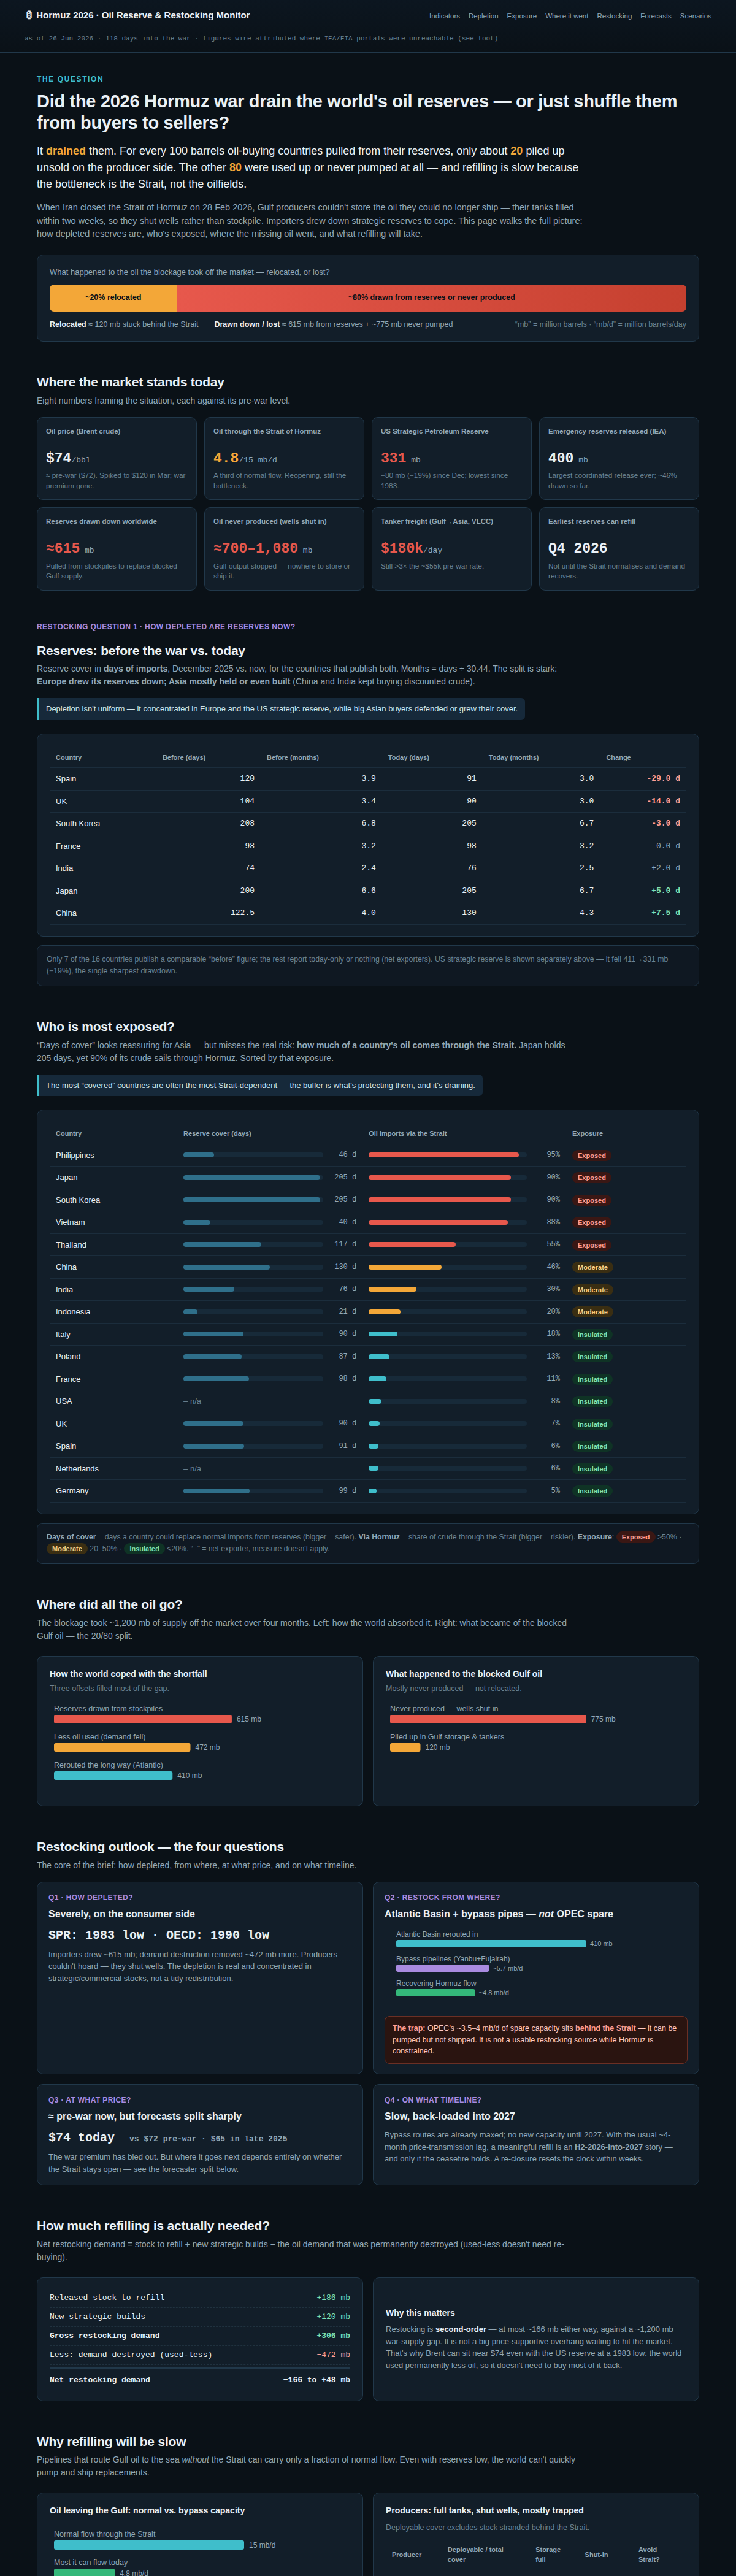
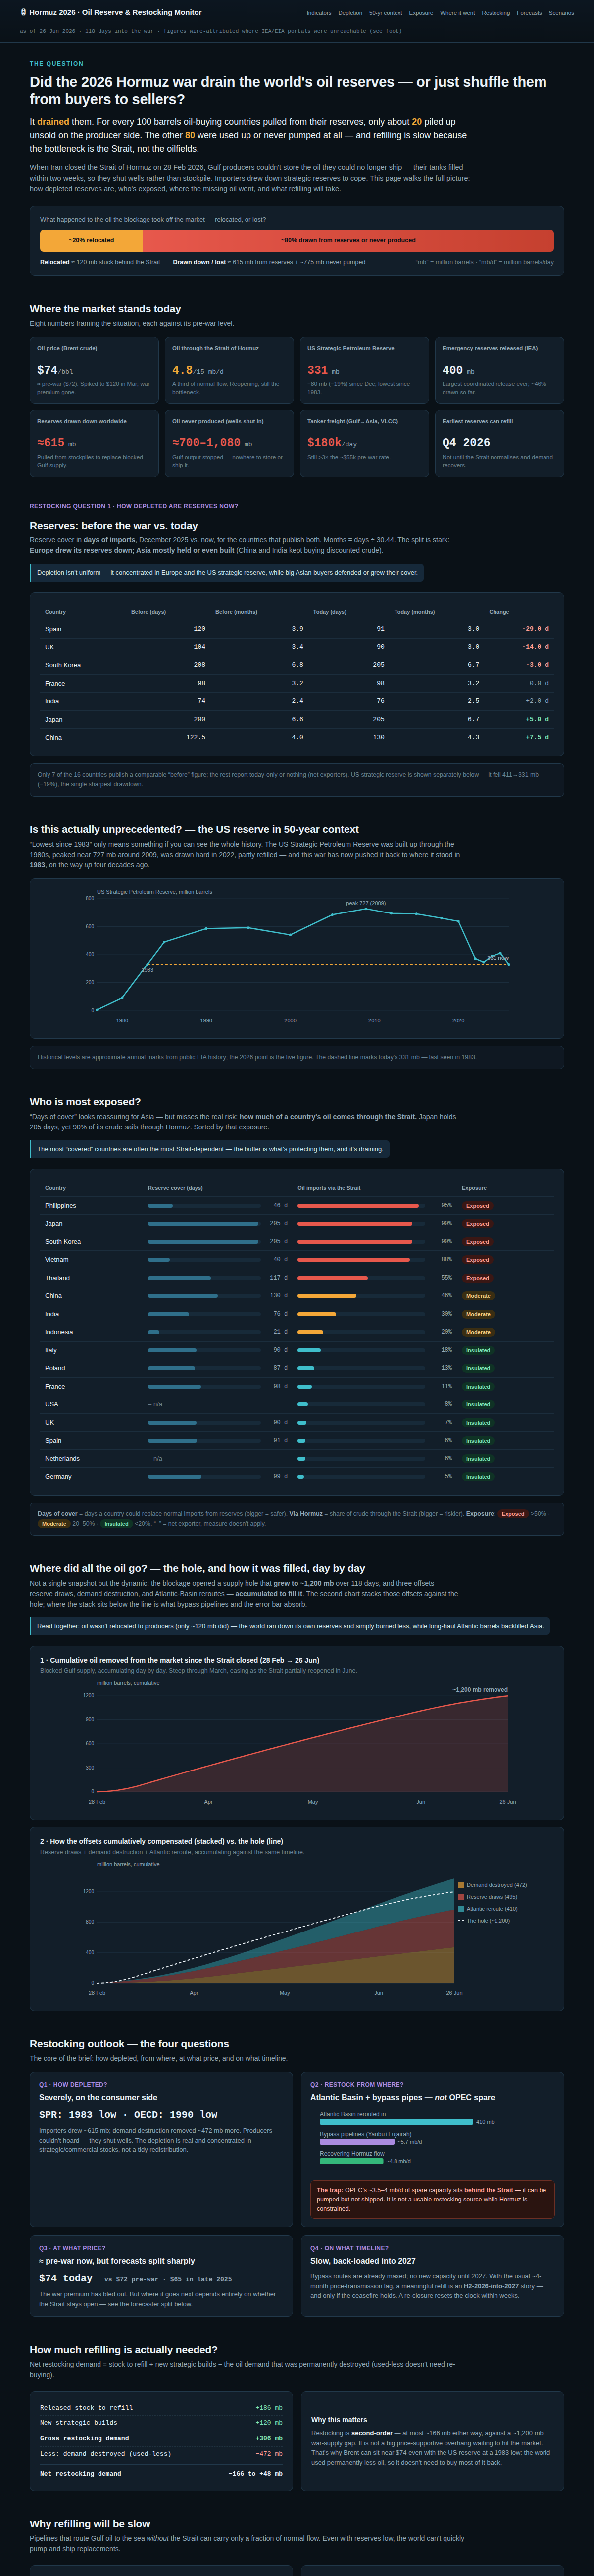
Dashboard: add historical context + cumulative day-by-day analytics
Address feedback that the page displayed numbers without McKinsey-style context/flow:
- US SPR in 50-year context (1977-2026): build-up, 727 peak (2009), 2022 draw, and
  today's 331 mb marked against its 1983 level — so "lowest since 1983" lands.
- Replace the two static ledger bars with cumulative day-by-day time series:
  (1) supply removed from the market growing to ~1,200 mb over the 118 days;
  (2) stacked cumulative compensation (demand destroyed + reserve draws + Atlantic
  reroute) against the hole, showing how the offsets filled it over time.
- Modelled daily rates scaled to the ledger totals; month axis Feb->Jun.

Claude-Session: https://claude.ai/code/session_01VLUjJfiMj99Gd9BWnp2XB6

diff --git a/dashboard/index.html b/dashboard/index.html
@@ -109,7 +109,7 @@
   <div class="hd">
     <span class="t">🛢 Hormuz 2026 · Oil Reserve & Restocking Monitor</span>
     <nav>
-      <a href="#indicators">Indicators</a><a href="#depletion">Depletion</a><a href="#exposed">Exposure</a>
+      <a href="#indicators">Indicators</a><a href="#depletion">Depletion</a><a href="#context">50-yr context</a><a href="#exposed">Exposure</a>
       <a href="#ledger">Where it went</a><a href="#restock">Restocking</a><a href="#price">Forecasts</a><a href="#scenarios">Scenarios</a>
     </nav>
     <span class="meta">as of 26 Jun 2026 · 118 days into the war · figures wire-attributed where IEA/EIA portals were unreachable (see foot)</span>
@@ -164,7 +164,13 @@
       <tbody></tbody>
     </table>
   </div>
-  <div class="terms">Only 7 of the 16 countries publish a comparable “before” figure; the rest report today-only or nothing (net exporters). US strategic reserve is shown separately above — it fell 411→331 mb (−19%), the single sharpest drawdown.</div>
+  <div class="terms">Only 7 of the 16 countries publish a comparable “before” figure; the rest report today-only or nothing (net exporters). US strategic reserve is shown separately below — it fell 411→331 mb (−19%), the single sharpest drawdown.</div>
+
+  <!-- SPR 50-YEAR CONTEXT -->
+  <h2 id="context">Is this actually unprecedented? — the US reserve in 50-year context</h2>
+  <p class="sub">“Lowest since 1983” only means something if you can see the whole history. The US Strategic Petroleum Reserve was built up through the 1980s, peaked near 727 mb around 2009, was drawn hard in 2022, partly refilled — and this war has now pushed it back to where it stood in <b>1983</b>, on the way <i>up</i> four decades ago.</p>
+  <div class="panel"><svg id="sprhist" viewBox="0 0 900 280" width="100%" height="280"></svg></div>
+  <div class="terms">Historical levels are approximate annual marks from public EIA history; the 2026 point is the live figure. The dashed line marks today's 331 mb — last seen in 1983.</div>
 
   <!-- EXPOSURE (import-at-risk) -->
   <h2 id="exposed">Who is most exposed?</h2>
@@ -178,17 +184,16 @@
   </div>
   <div class="terms"><b>Days of cover</b> = days a country could replace normal imports from reserves (bigger = safer). <b>Via Hormuz</b> = share of crude through the Strait (bigger = riskier). <b>Exposure</b>: <span class="pill p-exp">Exposed</span> &gt;50% · <span class="pill p-mod">Moderate</span> 20–50% · <span class="pill p-ins">Insulated</span> &lt;20%. “–” = net exporter, measure doesn't apply.</div>
 
-  <!-- LEDGER -->
-  <h2 id="ledger">Where did all the oil go?</h2>
-  <p class="sub">The blockage took ~1,200 mb of supply off the market over four months. Left: how the world absorbed it. Right: what became of the blocked Gulf oil — the 20/80 split.</p>
-  <div class="grid2">
-    <div class="panel"><h4 style="margin:0 0 4px">How the world coped with the shortfall</h4>
-      <p style="font-size:12.5px;color:var(--faint);margin:0 0 8px">Three offsets filled most of the gap.</p>
-      <svg id="coped" viewBox="0 0 480 150" width="100%" height="150"></svg></div>
-    <div class="panel"><h4 style="margin:0 0 4px">What happened to the blocked Gulf oil</h4>
-      <p style="font-size:12.5px;color:var(--faint);margin:0 0 8px">Mostly never produced — not relocated.</p>
-      <svg id="blocked" viewBox="0 0 480 110" width="100%" height="110"></svg></div>
-  </div>
+  <!-- LEDGER — cumulative, day-by-day -->
+  <h2 id="ledger">Where did all the oil go? — the hole, and how it was filled, day by day</h2>
+  <p class="sub">Not a single snapshot but the dynamic: the blockage opened a supply hole that <b>grew to ~1,200 mb</b> over 118 days, and three offsets — reserve draws, demand destruction, and Atlantic-Basin reroutes — <b>accumulated to fill it</b>. The second chart stacks those offsets against the hole; where the stack sits below the line is what bypass pipelines and the error bar absorb.</p>
+  <span class="so">Read together: oil wasn't relocated to producers (only ~120 mb did) — the world ran down its own reserves and simply burned less, while long-haul Atlantic barrels backfilled Asia.</span>
+  <div class="panel"><h4 style="margin:0 0 2px">1 · Cumulative oil removed from the market since the Strait closed (28 Feb → 26 Jun)</h4>
+    <p style="font-size:12.5px;color:var(--faint);margin:0 0 6px">Blocked Gulf supply, accumulating day by day. Steep through March, easing as the Strait partially reopened in June.</p>
+    <svg id="cumloss" viewBox="0 0 900 260" width="100%" height="260"></svg></div>
+  <div class="panel" style="margin-top:14px"><h4 style="margin:0 0 2px">2 · How the offsets cumulatively compensated (stacked) vs. the hole (line)</h4>
+    <p style="font-size:12.5px;color:var(--faint);margin:0 0 6px">Reserve draws + demand destruction + Atlantic reroute, accumulating against the same timeline.</p>
+    <svg id="cumcomp" viewBox="0 0 900 280" width="100%" height="280"></svg></div>
 
   <!-- RESTOCKING — 4 questions (scope c) -->
   <h2 id="restock">Restocking outlook — the four questions</h2>
@@ -357,21 +362,51 @@ producer.forEach(r=>{
 });
 
 // ---- horizontal bars helper ----
-function hbars(id,rows,max,unit,labelW){
-  labelW=labelW||150; const svg=document.getElementById(id),W=480,top=6,rowH=46;
-  rows.forEach((r,i)=>{const y=top+i*rowH,bw=Math.max(2,(r.v/max)*(W-labelW));
-    svg.insertAdjacentHTML("beforeend",
-     `<text x="2" y="${y+14}" fill="#eaf1f6" font-size="12.5">${r.label}</text>
-      <rect x="2" y="${y+20}" width="${bw}" height="14" rx="3" fill="${r.color}"/>
-      <text x="${bw+10}" y="${y+31}" fill="#93a8b6" font-size="12">${r.v} ${unit||'mb'}</text>`);});
-}
-hbars("coped",[
- {label:"Reserves drawn from stockpiles",v:615,color:"#e7584c"},
- {label:"Less oil used (demand fell)",v:472,color:"#f3a738"},
- {label:"Rerouted the long way (Atlantic)",v:410,color:"#3fbecb"}],700);
-hbars("blocked",[
- {label:"Never produced — wells shut in",v:775,color:"#e7584c"},
- {label:"Piled up in Gulf storage & tankers",v:120,color:"#f3a738"}],800);
+// ===== cumulative day-by-day series (modelled to match the ledger totals) =====
+const DAYS=118;
+function accum(w,total){let s=0,a=[];for(let d=0;d<=DAYS;d++){s+=Math.max(0,w(d));a.push(s);}const k=total/a[a.length-1];return a.map(v=>v*k);}
+const gap    = accum(d=> d<14? d/14*13 : d<90? 12-(d-14)/76*2 : 10-(d-90)/28*5, 1200); // supply removed
+const demand = accum(d=> Math.min(5, d/40*5), 472);                                     // demand destroyed
+const draw   = accum(d=> d<30? 2+d/30*2 : d<90? 4+(d-30)/60*2 : 6-(d-90)/28*3, 495);    // reserve draws
+const atl    = accum(d=> Math.min(4, d/55*4), 410);                                     // Atlantic reroute
+const xs=(d,L,W,R)=>L+d/DAYS*(W-L-R);
+const lpath=(v,L,W,R,yf)=>v.map((y,d)=>`${d?'L':'M'}${xs(d,L,W,R).toFixed(1)} ${yf(y).toFixed(1)}`).join(" ");
+const apath=(v,L,W,R,yf,y0)=>lpath(v,L,W,R,yf)+` L${xs(DAYS,L,W,R).toFixed(1)} ${y0} L${xs(0,L,W,R).toFixed(1)} ${y0} Z`;
+function band(lo,hi,L,W,R,yf){let p=hi.map((y,d)=>`${d?'L':'M'}${xs(d,L,W,R).toFixed(1)} ${yf(y).toFixed(1)}`).join(" ");for(let d=DAYS;d>=0;d--)p+=` L${xs(d,L,W,R).toFixed(1)} ${yf(lo[d]).toFixed(1)}`;return p+" Z";}
+function months(svg,L,W,R,H){[[0,"28 Feb"],[32,"Apr"],[62,"May"],[93,"Jun"],[118,"26 Jun"]].forEach(([d,l])=>svg.insertAdjacentHTML("beforeend",`<text x="${xs(d,L,W,R)}" y="${H-8}" text-anchor="middle" font-size="11">${l}</text>`));}
+function ygrid(svg,L,W,R,yf,vals){vals.forEach(g=>svg.insertAdjacentHTML("beforeend",`<line x1="${L}" y1="${yf(g)}" x2="${W-R}" y2="${yf(g)}" stroke="#1b2d3c"/><text x="${L-6}" y="${yf(g)+3}" text-anchor="end" font-size="10">${g}</text>`));}
+
+// 1 · cumulative loss
+(function(){const svg=document.getElementById("cumloss"),W=900,H=260,L=46,R=24,T=18,B=32,yMax=1300,yf=v=>T+(1-v/yMax)*(H-T-B);
+ ygrid(svg,L,W,R,yf,[0,300,600,900,1200]);
+ svg.insertAdjacentHTML("beforeend",`<path d="${apath(gap,L,W,R,yf,yf(0))}" fill="#e7584c2e"/><path d="${lpath(gap,L,W,R,yf)}" fill="none" stroke="#e7584c" stroke-width="2.5"/>`);
+ svg.insertAdjacentHTML("beforeend",`<text x="${W-R}" y="${yf(gap[DAYS])-8}" text-anchor="end" fill="#ff9d92" font-size="12" font-weight="bold">~1,200 mb removed</text><text x="${L}" y="12" font-size="11" fill="#93a8b6">million barrels, cumulative</text>`);
+ months(svg,L,W,R,H);})();
+
+// 2 · cumulative compensation (stacked) vs gap line
+(function(){const svg=document.getElementById("cumcomp"),W=900,H=280,L=46,R=132,T=18,B=32,yMax=1500,yf=v=>T+(1-v/yMax)*(H-T-B);
+ ygrid(svg,L,W,R,yf,[0,400,800,1200]);
+ const z=demand.map(()=>0),l2=demand.map((v,i)=>v+draw[i]),l3=l2.map((v,i)=>v+atl[i]);
+ svg.insertAdjacentHTML("beforeend",`<path d="${band(z,demand,L,W,R,yf)}" fill="#f3a73866"/><path d="${band(demand,l2,L,W,R,yf)}" fill="#e7584c66"/><path d="${band(l2,l3,L,W,R,yf)}" fill="#3fbecb66"/>`);
+ svg.insertAdjacentHTML("beforeend",`<path d="${lpath(gap,L,W,R,yf)}" fill="none" stroke="#eaf1f6" stroke-width="2" stroke-dasharray="5 4"/>`);
+ const leg=[["Demand destroyed","#f3a738","472"],["Reserve draws","#e7584c","495"],["Atlantic reroute","#3fbecb","410"]];
+ leg.forEach((d,i)=>svg.insertAdjacentHTML("beforeend",`<rect x="${W-R+8}" y="${44+i*24}" width="12" height="12" fill="${d[1]}aa"/><text x="${W-R+25}" y="${54+i*24}" font-size="11" fill="#eaf1f6">${d[0]} (${d[2]})</text>`));
+ svg.insertAdjacentHTML("beforeend",`<line x1="${W-R+8}" y1="${44+3*24+6}" x2="${W-R+20}" y2="${44+3*24+6}" stroke="#eaf1f6" stroke-width="2" stroke-dasharray="4 3"/><text x="${W-R+25}" y="${44+3*24+10}" font-size="11" fill="#eaf1f6">The hole (~1,200)</text><text x="${L}" y="12" font-size="11" fill="#93a8b6">million barrels, cumulative</text>`);
+ months(svg,L,W,R,H);})();
+
+// SPR 50-year history
+(function(){const svg=document.getElementById("sprhist"),W=900,H=280,L=46,R=22,T=22,B=32;
+ const d=[[1977,7],[1980,92],[1983,331],[1985,490],[1990,586],[1995,592],[2000,541],[2005,685],[2009,727],[2012,695],[2015,691],[2018,660],[2020,638],[2022,372],[2023,347],[2024,390],[2025,411],[2026,331]];
+ const x0=1977,x1=2026,xf=y=>L+(y-x0)/(x1-x0)*(W-L-R),yMax=800,yf=v=>T+(1-v/yMax)*(H-T-B);
+ [0,200,400,600,800].forEach(g=>svg.insertAdjacentHTML("beforeend",`<line x1="${L}" y1="${yf(g)}" x2="${W-R}" y2="${yf(g)}" stroke="#1b2d3c"/><text x="${L-6}" y="${yf(g)+3}" text-anchor="end" font-size="10">${g}</text>`));
+ [1980,1990,2000,2010,2020].forEach(yr=>svg.insertAdjacentHTML("beforeend",`<text x="${xf(yr)}" y="${H-8}" text-anchor="middle" font-size="11">${yr}</text>`));
+ svg.insertAdjacentHTML("beforeend",`<line x1="${xf(1983)}" y1="${yf(331)}" x2="${xf(2026)}" y2="${yf(331)}" stroke="#f3a738" stroke-dasharray="5 4" stroke-width="1.5"/>`);
+ svg.insertAdjacentHTML("beforeend",`<path d="${d.map((p,i)=>`${i?'L':'M'}${xf(p[0]).toFixed(1)} ${yf(p[1]).toFixed(1)}`).join(" ")}" fill="none" stroke="#3fbecb" stroke-width="2.5"/>`);
+ d.forEach(p=>svg.insertAdjacentHTML("beforeend",`<circle cx="${xf(p[0])}" cy="${yf(p[1])}" r="2.6" fill="#3fbecb"/>`));
+ svg.insertAdjacentHTML("beforeend",`<text x="${xf(2009)}" y="${yf(727)-8}" text-anchor="middle" font-size="11" fill="#7fe2b3">peak 727 (2009)</text>`);
+ svg.insertAdjacentHTML("beforeend",`<text x="${xf(2026)}" y="${yf(331)-9}" text-anchor="end" font-size="11" fill="#ff9d92" font-weight="bold">331 now</text>`);
+ svg.insertAdjacentHTML("beforeend",`<text x="${xf(1983)}" y="${yf(331)+16}" text-anchor="middle" font-size="11" fill="#f3a738">1983</text>`);
+ svg.insertAdjacentHTML("beforeend",`<text x="${L}" y="12" font-size="11" fill="#93a8b6">US Strategic Petroleum Reserve, million barrels</text>`);})();
 
 // sourcing (Q2) — smaller viewBox
 (function(){const svg=document.getElementById("sourcing"),W=460,max=410,top=4,rowH=40,labelW=150;

diff --git a/index.html b/index.html
@@ -109,7 +109,7 @@
   <div class="hd">
     <span class="t">🛢 Hormuz 2026 · Oil Reserve & Restocking Monitor</span>
     <nav>
-      <a href="#indicators">Indicators</a><a href="#depletion">Depletion</a><a href="#exposed">Exposure</a>
+      <a href="#indicators">Indicators</a><a href="#depletion">Depletion</a><a href="#context">50-yr context</a><a href="#exposed">Exposure</a>
       <a href="#ledger">Where it went</a><a href="#restock">Restocking</a><a href="#price">Forecasts</a><a href="#scenarios">Scenarios</a>
     </nav>
     <span class="meta">as of 26 Jun 2026 · 118 days into the war · figures wire-attributed where IEA/EIA portals were unreachable (see foot)</span>
@@ -164,7 +164,13 @@
       <tbody></tbody>
     </table>
   </div>
-  <div class="terms">Only 7 of the 16 countries publish a comparable “before” figure; the rest report today-only or nothing (net exporters). US strategic reserve is shown separately above — it fell 411→331 mb (−19%), the single sharpest drawdown.</div>
+  <div class="terms">Only 7 of the 16 countries publish a comparable “before” figure; the rest report today-only or nothing (net exporters). US strategic reserve is shown separately below — it fell 411→331 mb (−19%), the single sharpest drawdown.</div>
+
+  <!-- SPR 50-YEAR CONTEXT -->
+  <h2 id="context">Is this actually unprecedented? — the US reserve in 50-year context</h2>
+  <p class="sub">“Lowest since 1983” only means something if you can see the whole history. The US Strategic Petroleum Reserve was built up through the 1980s, peaked near 727 mb around 2009, was drawn hard in 2022, partly refilled — and this war has now pushed it back to where it stood in <b>1983</b>, on the way <i>up</i> four decades ago.</p>
+  <div class="panel"><svg id="sprhist" viewBox="0 0 900 280" width="100%" height="280"></svg></div>
+  <div class="terms">Historical levels are approximate annual marks from public EIA history; the 2026 point is the live figure. The dashed line marks today's 331 mb — last seen in 1983.</div>
 
   <!-- EXPOSURE (import-at-risk) -->
   <h2 id="exposed">Who is most exposed?</h2>
@@ -178,17 +184,16 @@
   </div>
   <div class="terms"><b>Days of cover</b> = days a country could replace normal imports from reserves (bigger = safer). <b>Via Hormuz</b> = share of crude through the Strait (bigger = riskier). <b>Exposure</b>: <span class="pill p-exp">Exposed</span> &gt;50% · <span class="pill p-mod">Moderate</span> 20–50% · <span class="pill p-ins">Insulated</span> &lt;20%. “–” = net exporter, measure doesn't apply.</div>
 
-  <!-- LEDGER -->
-  <h2 id="ledger">Where did all the oil go?</h2>
-  <p class="sub">The blockage took ~1,200 mb of supply off the market over four months. Left: how the world absorbed it. Right: what became of the blocked Gulf oil — the 20/80 split.</p>
-  <div class="grid2">
-    <div class="panel"><h4 style="margin:0 0 4px">How the world coped with the shortfall</h4>
-      <p style="font-size:12.5px;color:var(--faint);margin:0 0 8px">Three offsets filled most of the gap.</p>
-      <svg id="coped" viewBox="0 0 480 150" width="100%" height="150"></svg></div>
-    <div class="panel"><h4 style="margin:0 0 4px">What happened to the blocked Gulf oil</h4>
-      <p style="font-size:12.5px;color:var(--faint);margin:0 0 8px">Mostly never produced — not relocated.</p>
-      <svg id="blocked" viewBox="0 0 480 110" width="100%" height="110"></svg></div>
-  </div>
+  <!-- LEDGER — cumulative, day-by-day -->
+  <h2 id="ledger">Where did all the oil go? — the hole, and how it was filled, day by day</h2>
+  <p class="sub">Not a single snapshot but the dynamic: the blockage opened a supply hole that <b>grew to ~1,200 mb</b> over 118 days, and three offsets — reserve draws, demand destruction, and Atlantic-Basin reroutes — <b>accumulated to fill it</b>. The second chart stacks those offsets against the hole; where the stack sits below the line is what bypass pipelines and the error bar absorb.</p>
+  <span class="so">Read together: oil wasn't relocated to producers (only ~120 mb did) — the world ran down its own reserves and simply burned less, while long-haul Atlantic barrels backfilled Asia.</span>
+  <div class="panel"><h4 style="margin:0 0 2px">1 · Cumulative oil removed from the market since the Strait closed (28 Feb → 26 Jun)</h4>
+    <p style="font-size:12.5px;color:var(--faint);margin:0 0 6px">Blocked Gulf supply, accumulating day by day. Steep through March, easing as the Strait partially reopened in June.</p>
+    <svg id="cumloss" viewBox="0 0 900 260" width="100%" height="260"></svg></div>
+  <div class="panel" style="margin-top:14px"><h4 style="margin:0 0 2px">2 · How the offsets cumulatively compensated (stacked) vs. the hole (line)</h4>
+    <p style="font-size:12.5px;color:var(--faint);margin:0 0 6px">Reserve draws + demand destruction + Atlantic reroute, accumulating against the same timeline.</p>
+    <svg id="cumcomp" viewBox="0 0 900 280" width="100%" height="280"></svg></div>
 
   <!-- RESTOCKING — 4 questions (scope c) -->
   <h2 id="restock">Restocking outlook — the four questions</h2>
@@ -357,21 +362,51 @@ producer.forEach(r=>{
 });
 
 // ---- horizontal bars helper ----
-function hbars(id,rows,max,unit,labelW){
-  labelW=labelW||150; const svg=document.getElementById(id),W=480,top=6,rowH=46;
-  rows.forEach((r,i)=>{const y=top+i*rowH,bw=Math.max(2,(r.v/max)*(W-labelW));
-    svg.insertAdjacentHTML("beforeend",
-     `<text x="2" y="${y+14}" fill="#eaf1f6" font-size="12.5">${r.label}</text>
-      <rect x="2" y="${y+20}" width="${bw}" height="14" rx="3" fill="${r.color}"/>
-      <text x="${bw+10}" y="${y+31}" fill="#93a8b6" font-size="12">${r.v} ${unit||'mb'}</text>`);});
-}
-hbars("coped",[
- {label:"Reserves drawn from stockpiles",v:615,color:"#e7584c"},
- {label:"Less oil used (demand fell)",v:472,color:"#f3a738"},
- {label:"Rerouted the long way (Atlantic)",v:410,color:"#3fbecb"}],700);
-hbars("blocked",[
- {label:"Never produced — wells shut in",v:775,color:"#e7584c"},
- {label:"Piled up in Gulf storage & tankers",v:120,color:"#f3a738"}],800);
+// ===== cumulative day-by-day series (modelled to match the ledger totals) =====
+const DAYS=118;
+function accum(w,total){let s=0,a=[];for(let d=0;d<=DAYS;d++){s+=Math.max(0,w(d));a.push(s);}const k=total/a[a.length-1];return a.map(v=>v*k);}
+const gap    = accum(d=> d<14? d/14*13 : d<90? 12-(d-14)/76*2 : 10-(d-90)/28*5, 1200); // supply removed
+const demand = accum(d=> Math.min(5, d/40*5), 472);                                     // demand destroyed
+const draw   = accum(d=> d<30? 2+d/30*2 : d<90? 4+(d-30)/60*2 : 6-(d-90)/28*3, 495);    // reserve draws
+const atl    = accum(d=> Math.min(4, d/55*4), 410);                                     // Atlantic reroute
+const xs=(d,L,W,R)=>L+d/DAYS*(W-L-R);
+const lpath=(v,L,W,R,yf)=>v.map((y,d)=>`${d?'L':'M'}${xs(d,L,W,R).toFixed(1)} ${yf(y).toFixed(1)}`).join(" ");
+const apath=(v,L,W,R,yf,y0)=>lpath(v,L,W,R,yf)+` L${xs(DAYS,L,W,R).toFixed(1)} ${y0} L${xs(0,L,W,R).toFixed(1)} ${y0} Z`;
+function band(lo,hi,L,W,R,yf){let p=hi.map((y,d)=>`${d?'L':'M'}${xs(d,L,W,R).toFixed(1)} ${yf(y).toFixed(1)}`).join(" ");for(let d=DAYS;d>=0;d--)p+=` L${xs(d,L,W,R).toFixed(1)} ${yf(lo[d]).toFixed(1)}`;return p+" Z";}
+function months(svg,L,W,R,H){[[0,"28 Feb"],[32,"Apr"],[62,"May"],[93,"Jun"],[118,"26 Jun"]].forEach(([d,l])=>svg.insertAdjacentHTML("beforeend",`<text x="${xs(d,L,W,R)}" y="${H-8}" text-anchor="middle" font-size="11">${l}</text>`));}
+function ygrid(svg,L,W,R,yf,vals){vals.forEach(g=>svg.insertAdjacentHTML("beforeend",`<line x1="${L}" y1="${yf(g)}" x2="${W-R}" y2="${yf(g)}" stroke="#1b2d3c"/><text x="${L-6}" y="${yf(g)+3}" text-anchor="end" font-size="10">${g}</text>`));}
+
+// 1 · cumulative loss
+(function(){const svg=document.getElementById("cumloss"),W=900,H=260,L=46,R=24,T=18,B=32,yMax=1300,yf=v=>T+(1-v/yMax)*(H-T-B);
+ ygrid(svg,L,W,R,yf,[0,300,600,900,1200]);
+ svg.insertAdjacentHTML("beforeend",`<path d="${apath(gap,L,W,R,yf,yf(0))}" fill="#e7584c2e"/><path d="${lpath(gap,L,W,R,yf)}" fill="none" stroke="#e7584c" stroke-width="2.5"/>`);
+ svg.insertAdjacentHTML("beforeend",`<text x="${W-R}" y="${yf(gap[DAYS])-8}" text-anchor="end" fill="#ff9d92" font-size="12" font-weight="bold">~1,200 mb removed</text><text x="${L}" y="12" font-size="11" fill="#93a8b6">million barrels, cumulative</text>`);
+ months(svg,L,W,R,H);})();
+
+// 2 · cumulative compensation (stacked) vs gap line
+(function(){const svg=document.getElementById("cumcomp"),W=900,H=280,L=46,R=132,T=18,B=32,yMax=1500,yf=v=>T+(1-v/yMax)*(H-T-B);
+ ygrid(svg,L,W,R,yf,[0,400,800,1200]);
+ const z=demand.map(()=>0),l2=demand.map((v,i)=>v+draw[i]),l3=l2.map((v,i)=>v+atl[i]);
+ svg.insertAdjacentHTML("beforeend",`<path d="${band(z,demand,L,W,R,yf)}" fill="#f3a73866"/><path d="${band(demand,l2,L,W,R,yf)}" fill="#e7584c66"/><path d="${band(l2,l3,L,W,R,yf)}" fill="#3fbecb66"/>`);
+ svg.insertAdjacentHTML("beforeend",`<path d="${lpath(gap,L,W,R,yf)}" fill="none" stroke="#eaf1f6" stroke-width="2" stroke-dasharray="5 4"/>`);
+ const leg=[["Demand destroyed","#f3a738","472"],["Reserve draws","#e7584c","495"],["Atlantic reroute","#3fbecb","410"]];
+ leg.forEach((d,i)=>svg.insertAdjacentHTML("beforeend",`<rect x="${W-R+8}" y="${44+i*24}" width="12" height="12" fill="${d[1]}aa"/><text x="${W-R+25}" y="${54+i*24}" font-size="11" fill="#eaf1f6">${d[0]} (${d[2]})</text>`));
+ svg.insertAdjacentHTML("beforeend",`<line x1="${W-R+8}" y1="${44+3*24+6}" x2="${W-R+20}" y2="${44+3*24+6}" stroke="#eaf1f6" stroke-width="2" stroke-dasharray="4 3"/><text x="${W-R+25}" y="${44+3*24+10}" font-size="11" fill="#eaf1f6">The hole (~1,200)</text><text x="${L}" y="12" font-size="11" fill="#93a8b6">million barrels, cumulative</text>`);
+ months(svg,L,W,R,H);})();
+
+// SPR 50-year history
+(function(){const svg=document.getElementById("sprhist"),W=900,H=280,L=46,R=22,T=22,B=32;
+ const d=[[1977,7],[1980,92],[1983,331],[1985,490],[1990,586],[1995,592],[2000,541],[2005,685],[2009,727],[2012,695],[2015,691],[2018,660],[2020,638],[2022,372],[2023,347],[2024,390],[2025,411],[2026,331]];
+ const x0=1977,x1=2026,xf=y=>L+(y-x0)/(x1-x0)*(W-L-R),yMax=800,yf=v=>T+(1-v/yMax)*(H-T-B);
+ [0,200,400,600,800].forEach(g=>svg.insertAdjacentHTML("beforeend",`<line x1="${L}" y1="${yf(g)}" x2="${W-R}" y2="${yf(g)}" stroke="#1b2d3c"/><text x="${L-6}" y="${yf(g)+3}" text-anchor="end" font-size="10">${g}</text>`));
+ [1980,1990,2000,2010,2020].forEach(yr=>svg.insertAdjacentHTML("beforeend",`<text x="${xf(yr)}" y="${H-8}" text-anchor="middle" font-size="11">${yr}</text>`));
+ svg.insertAdjacentHTML("beforeend",`<line x1="${xf(1983)}" y1="${yf(331)}" x2="${xf(2026)}" y2="${yf(331)}" stroke="#f3a738" stroke-dasharray="5 4" stroke-width="1.5"/>`);
+ svg.insertAdjacentHTML("beforeend",`<path d="${d.map((p,i)=>`${i?'L':'M'}${xf(p[0]).toFixed(1)} ${yf(p[1]).toFixed(1)}`).join(" ")}" fill="none" stroke="#3fbecb" stroke-width="2.5"/>`);
+ d.forEach(p=>svg.insertAdjacentHTML("beforeend",`<circle cx="${xf(p[0])}" cy="${yf(p[1])}" r="2.6" fill="#3fbecb"/>`));
+ svg.insertAdjacentHTML("beforeend",`<text x="${xf(2009)}" y="${yf(727)-8}" text-anchor="middle" font-size="11" fill="#7fe2b3">peak 727 (2009)</text>`);
+ svg.insertAdjacentHTML("beforeend",`<text x="${xf(2026)}" y="${yf(331)-9}" text-anchor="end" font-size="11" fill="#ff9d92" font-weight="bold">331 now</text>`);
+ svg.insertAdjacentHTML("beforeend",`<text x="${xf(1983)}" y="${yf(331)+16}" text-anchor="middle" font-size="11" fill="#f3a738">1983</text>`);
+ svg.insertAdjacentHTML("beforeend",`<text x="${L}" y="12" font-size="11" fill="#93a8b6">US Strategic Petroleum Reserve, million barrels</text>`);})();
 
 // sourcing (Q2) — smaller viewBox
 (function(){const svg=document.getElementById("sourcing"),W=460,max=410,top=4,rowH=40,labelW=150;